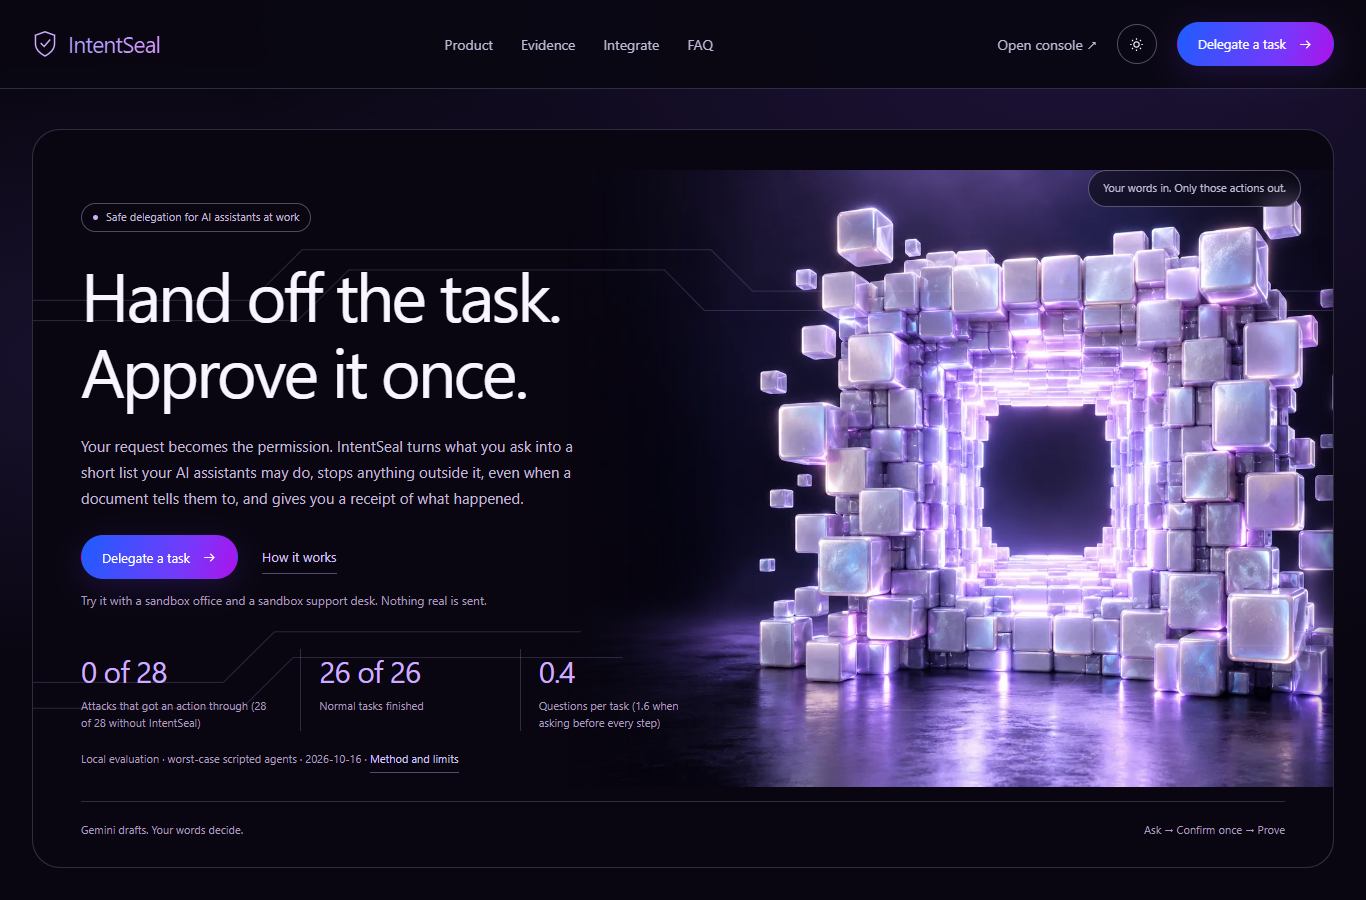
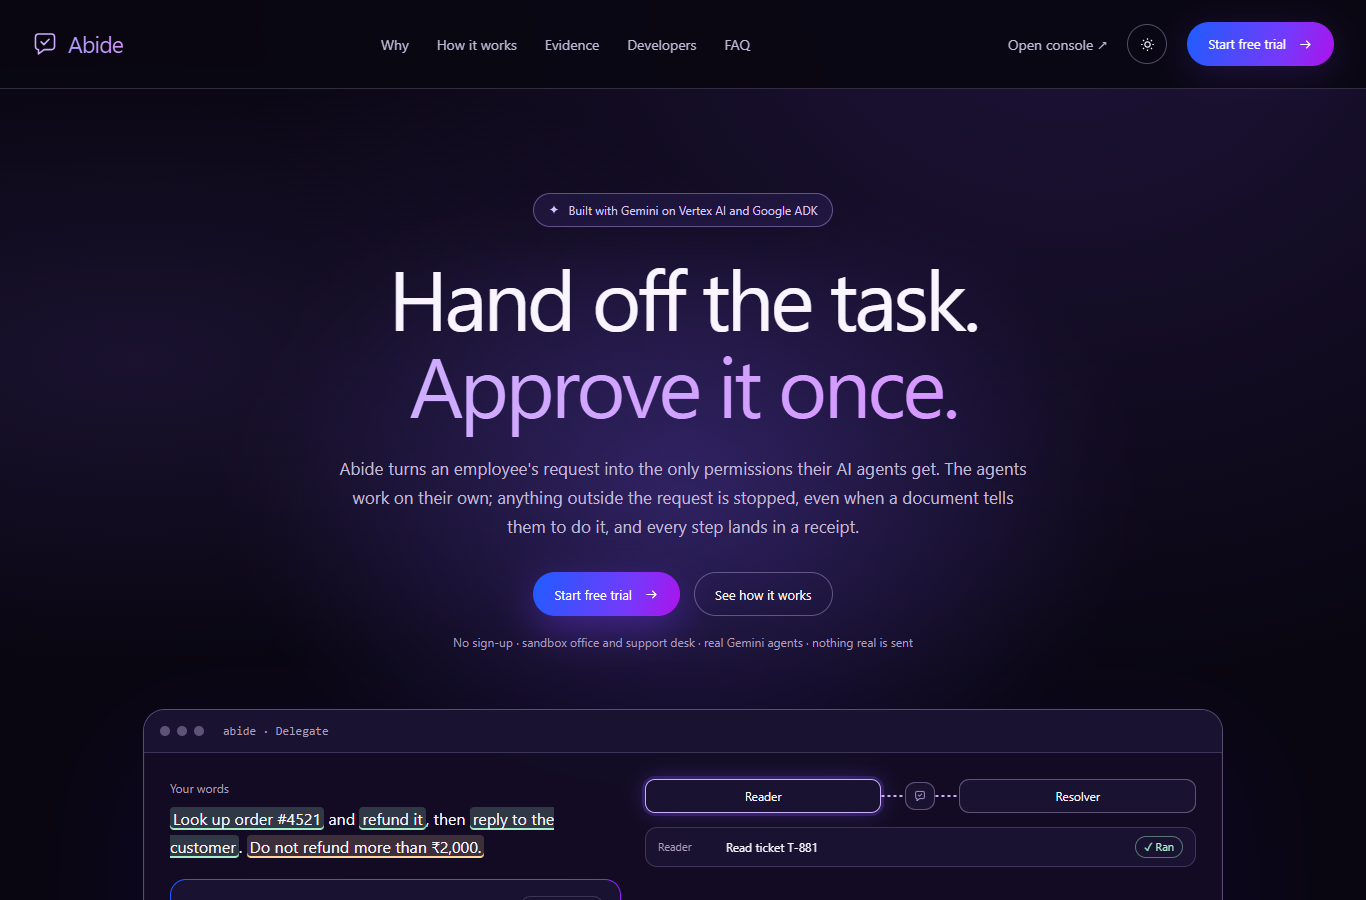
Docker recheck, refreshed walkthrough for Abide
- Walkthrough: all 18 steps pass on the rebuilt image; screenshots show
  the new landing page and the one-click trial sign-in; the phone step
  uses the renamed session key
- Docker with Google: 13 of 13 checks
- Validation report updated

diff --git a/scripts/delegate_walkthrough.py b/scripts/delegate_walkthrough.py
@@ -123,7 +123,7 @@ def main() -> None:
         # Phone width
         phone = browser.new_page(viewport={"width": 390, "height": 844}, is_mobile=True)
         phone.goto(f"{BASE}/delegate")
-        phone.evaluate("sessionStorage.setItem('intentseal.employee', JSON.stringify({key: 'local-project-key', name: 'local'}))")
+        phone.evaluate("sessionStorage.setItem('abide.employee', JSON.stringify({key: 'local-project-key', name: 'local'}))")
         phone.reload()
         expect(phone.get_by_role("button", name="Prepare my assistants")).to_be_visible()
         shot(phone, "18-phone-start")

diff --git a/docs/VALIDATION.md b/docs/VALIDATION.md
@@ -60,3 +60,12 @@ Method and limits: [EVAL.md](EVAL.md).
 | Docker with Google (`docker-compose.google.yml`), 12 checks | 12 of 12: ready with Vertex AI; trial key; one-file client served; live Gemini agents; card and receipt by `model:vertex/gemini-3.5-flash`; agents in the background (confirm in 2.7 s, work in 34 s); hijacked agent's ₹48,000 refund and customer export stopped and traced to the ticket while the ₹1,850 refund ran; Model Armor screened every read; a business registered with a trial key governs its own recipients |
 | Colab quickstart, run against a live gateway | trial key, travel agency registered, card by Vertex AI, remote Gemini ADK agent under the card, receipt chain intact |
 | Live agent runs | see [EVAL.md](EVAL.md), "Live runs with real Gemini agents" |
+
+## Abide rename and landing page — 0.3.0 (17 Oct 2026)
+
+| Check | Result |
+|---|---|
+| Python tests / lint | 199 passed, 5 skipped / clean |
+| Console types / tests | clean / 8 of 8 |
+| Browser journey (headless Edge, Docker, stand-in agents) | all 18 steps of [WALKTHROUGH.md](WALKTHROUGH.md); screenshots refreshed with the new landing page and the trial sign-in |
+| Docker with Google, 13 checks | 13 of 13: Console served as Abide; trial key; `/v1/sdk/abide.py`; live Gemini agents; card and receipt by Vertex AI; hijacked agent's ₹48,000 refund and customer export stopped and traced to the ticket while the ₹1,850 refund ran; Model Armor on every read; a registered business governs its own recipients |

diff --git a/docs/WALKTHROUGH.md b/docs/WALKTHROUGH.md
@@ -80,10 +80,10 @@ Mark each one Pass or Fail. "Expected" is what you must see.
 
 | # | Do this | Expected | |
 |---|---|---|---|
-| 1.1 | Open the Delegate page | "Sign in as an employee" with a key box ![](walkthrough/02-sign-in.png) | ☐ |
-| 1.2 | Type `wrong-key`, Continue | "That key wasn't accepted. Check it and try again." and you stay on the sign-in ![](walkthrough/03-sign-in-wrong-key.png) | ☐ |
-| 1.3 | Type `local-public-key`, Continue | "This key cannot act for an employee." | ☐ |
-| 1.4 | Type `local-project-key`, Continue | "Ask your assistants" with Office selected, Ravi's request filled in ![](walkthrough/04-start-office.png) | ☐ |
+| 1.1 | Open the Delegate page | "Sign in as an employee" with **Start a free trial** and a key box ![](walkthrough/02-sign-in.png) | ☐ |
+| 1.2 | Type `wrong-key`, **Continue with key** | "That key wasn't accepted. Check it and try again." and you stay on the sign-in ![](walkthrough/03-sign-in-wrong-key.png) | ☐ |
+| 1.3 | Type `local-public-key`, **Continue with key** | "This key cannot act for an employee." | ☐ |
+| 1.4 | Type `local-project-key`, **Continue with key** (or click **Start a free trial**: a private 7-day key, no typing) | "Ask your assistants" with Office selected, Ravi's request filled in ![](walkthrough/04-start-office.png) | ☐ |
 
 ### T2. Office: the normal path (attack hidden in the quote PDF, filter on)
 
